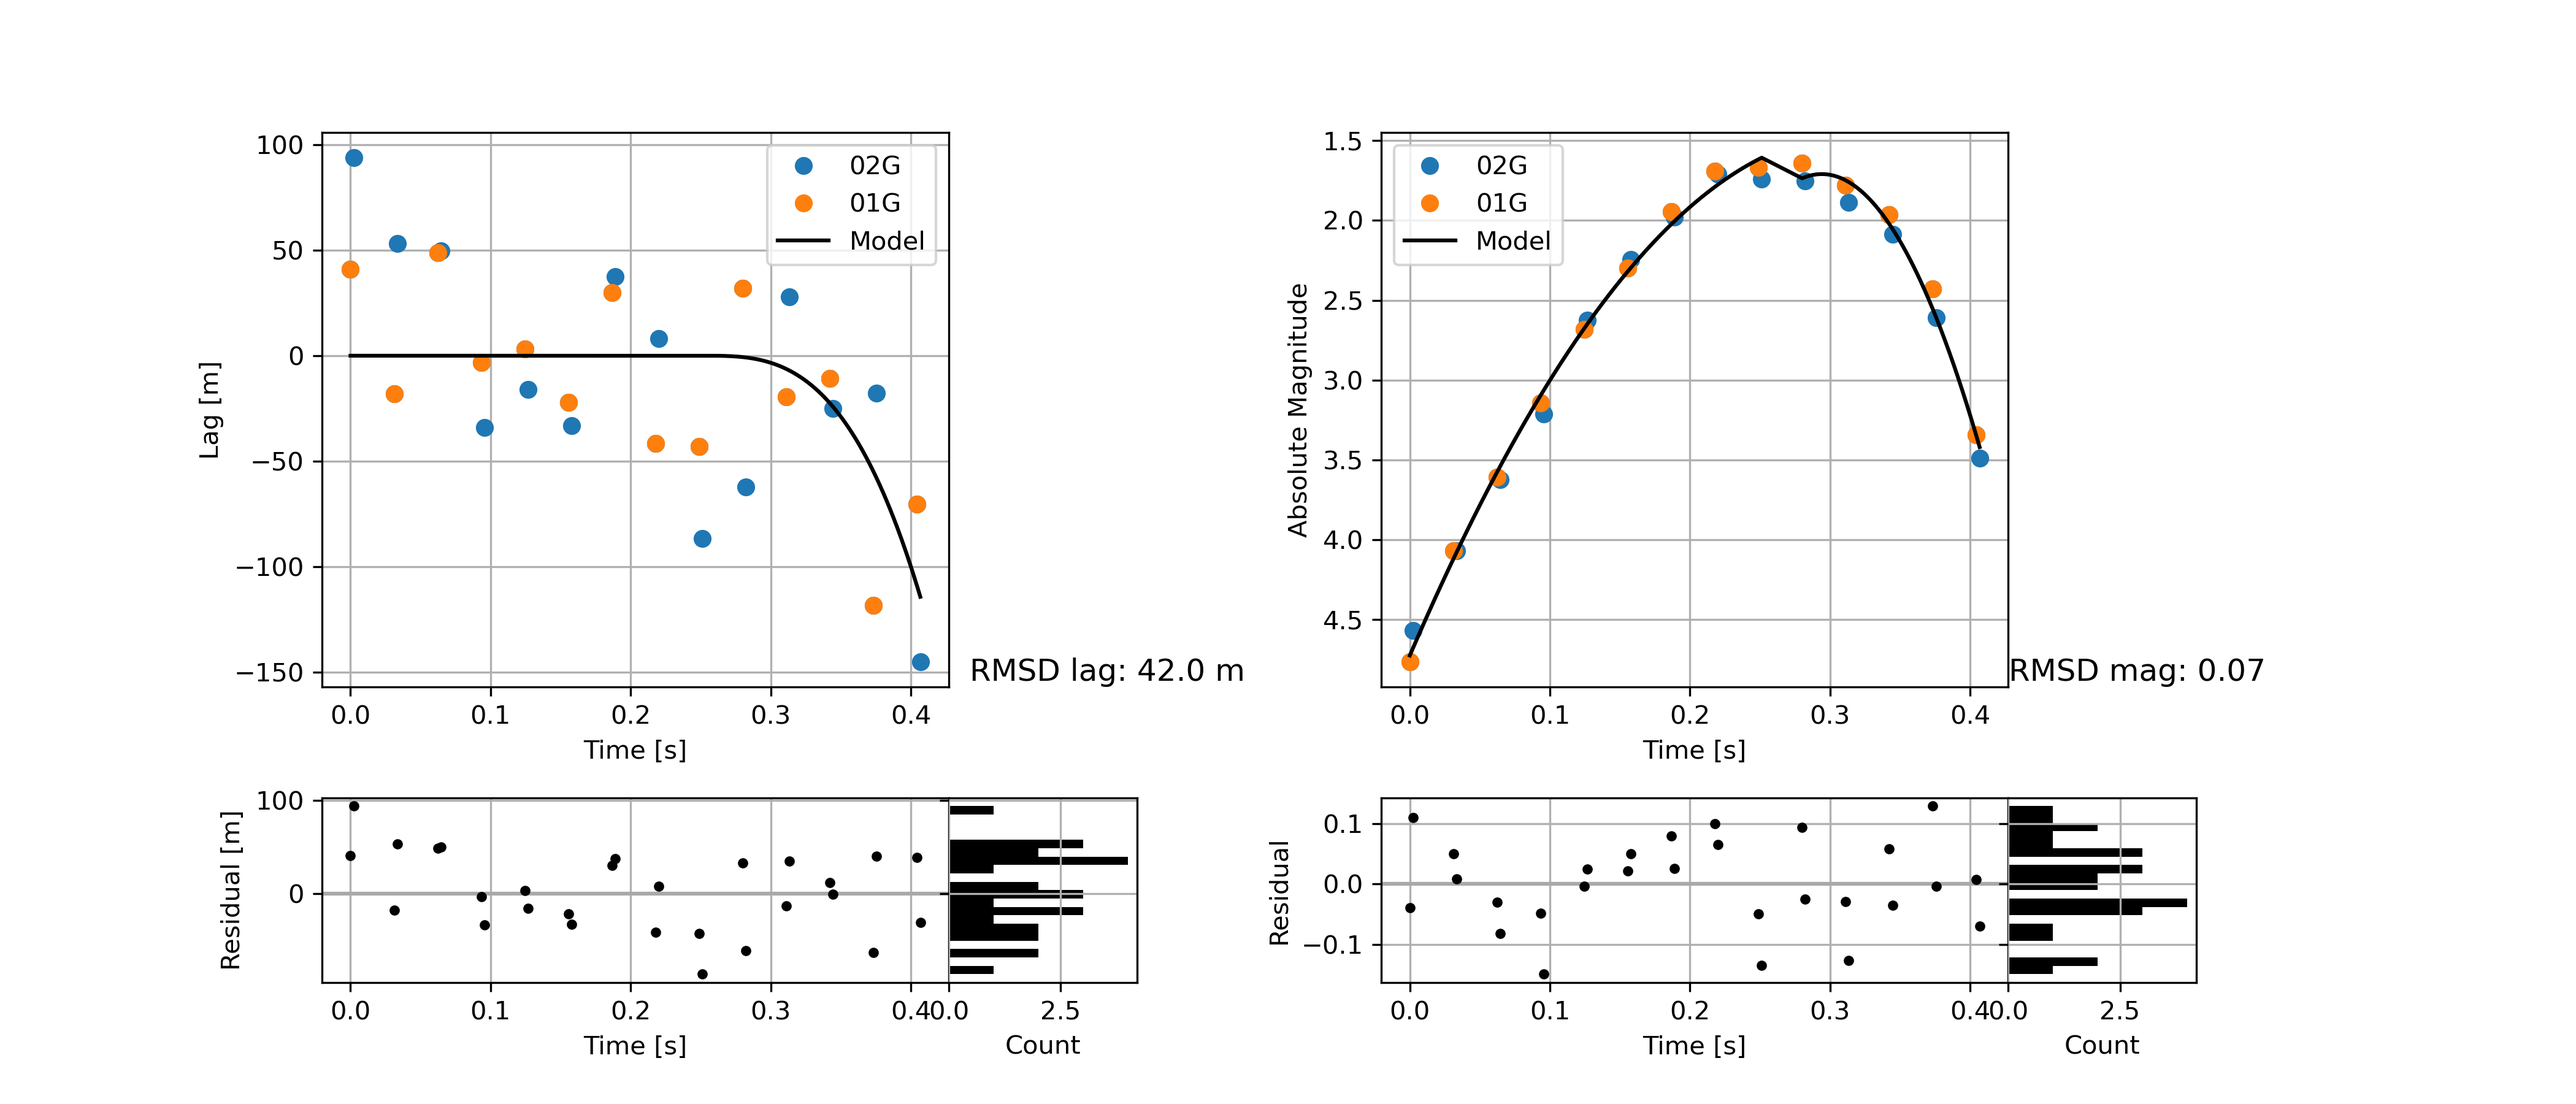
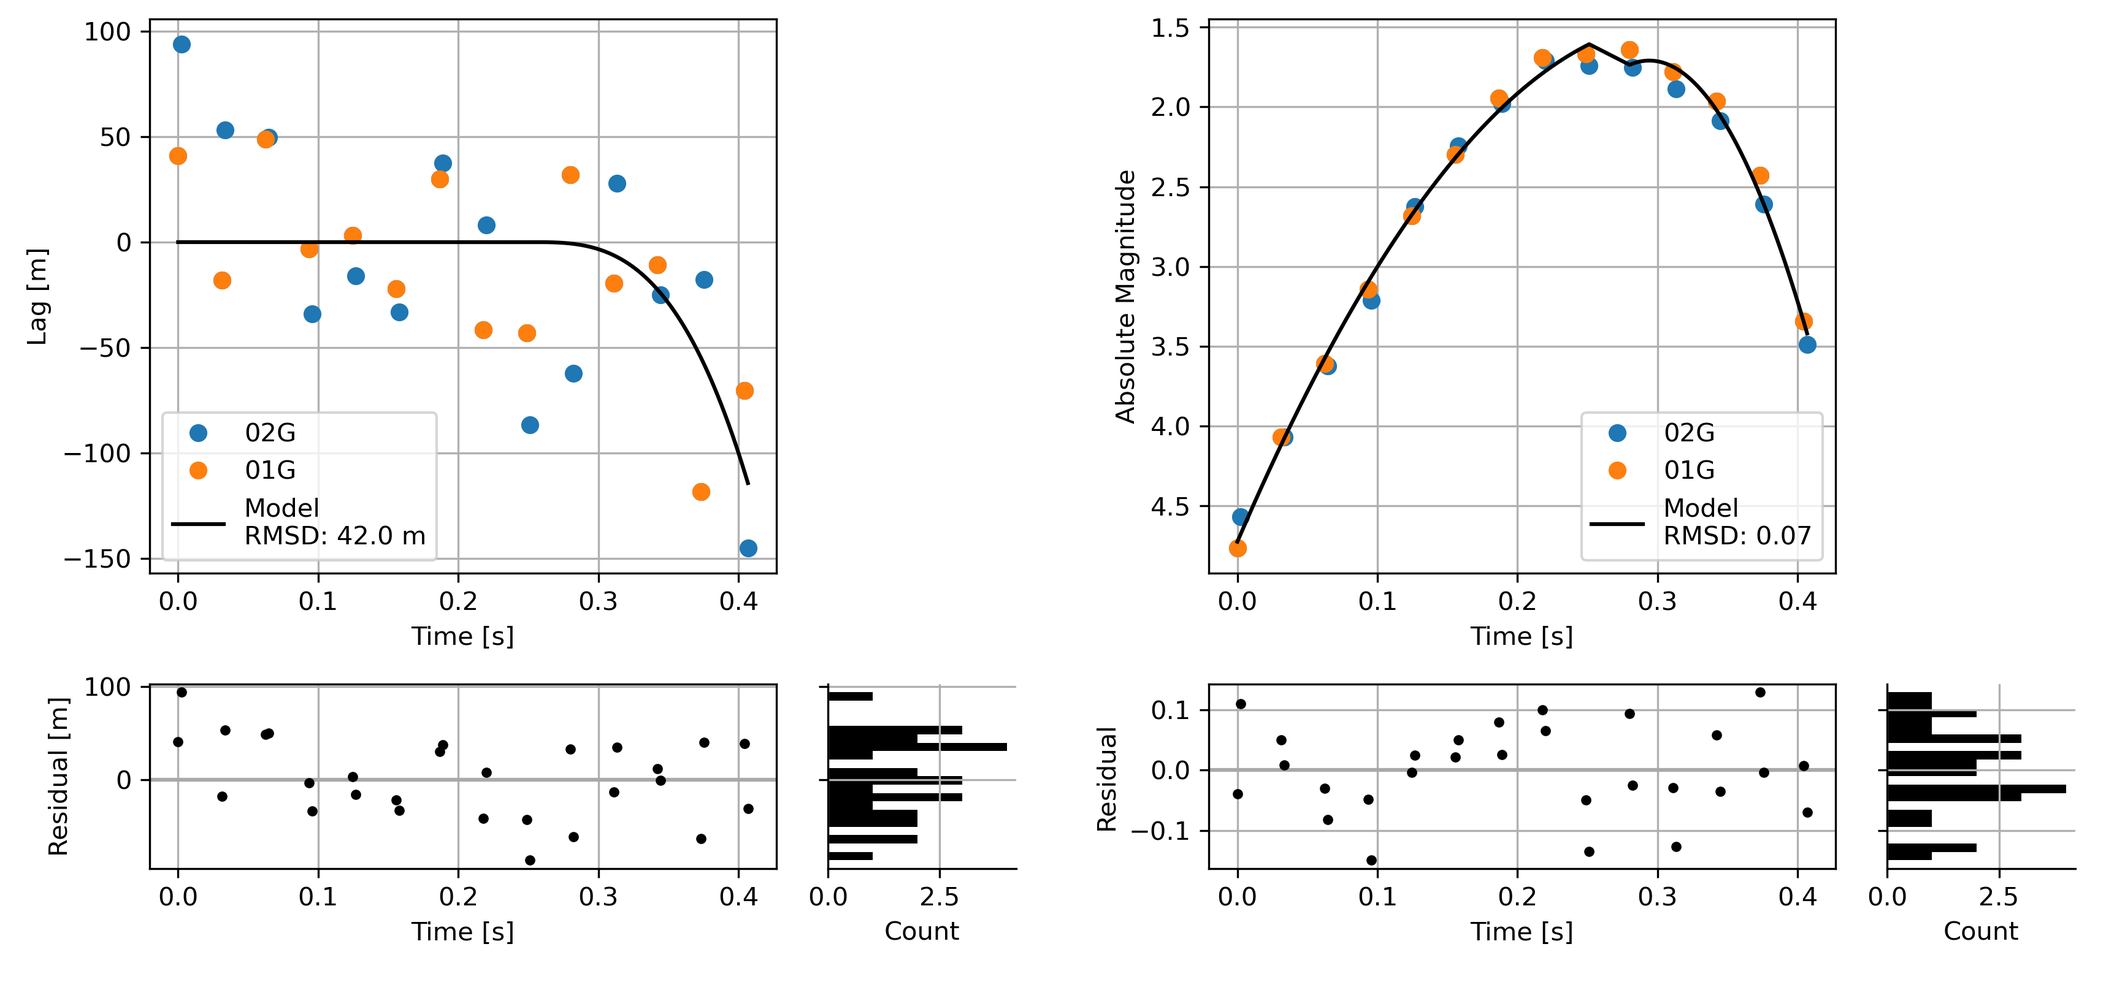
plotstdv.py

diff --git a/Code/PCA/manual_reduce/Plots_stdv.py b/Code/PCA/manual_reduce/Plots_stdv.py
@@ -273,7 +273,7 @@ def plot_side_by_side_old(obs1, obs2,file,num):
     ax[0].plot(obs1['time_data'], obs1['lag'], 'o', label=f'{obs1["station_id"]}')
     ax[0].plot(obs2['time_data'], obs2['lag'], 'o', label=f'{obs2["station_id"]}')
     fitted_lag, residuals_lag, avg_residual_lag, time_data, labels = fit_lag(obs1['lag'],obs1['time_data'],spli=100000)
-    ax[0].plot(time_data, fitted_lag, 'k-', label='Model')
+    ax[0].plot(time_data, fitted_lag, 'k-', label='Model\nRMSD: {:.1f} m'.format(avg_residual_lag))
     # spline_fit, residuals, avg_residual_lag = fit_spline(obs1['lag'] / 1000 , obs1['time_data'])
     # plt.plot(obs1['time_data'], spline_fit*1000, 'k-', label='Spline Fit')
     # spline_fit, residuals_lag, avg_residual_lag = fit_cubic_spline(obs1['lag'] / 1000, obs1['time_data'])
@@ -292,9 +292,9 @@ def plot_side_by_side_old(obs1, obs2,file,num):
     ax[2].plot(obs1['time_data'], obs1['absolute_magnitudes'], 'o', label=f'{obs1["station_id"]}')
     ax[2].plot(obs2['time_data'], obs2['absolute_magnitudes'], 'o', label=f'{obs2["station_id"]}')
     spline_fit, residuals_mag, avg_residual,time_data,label_fit = fit_spline(obs1['absolute_magnitudes'], obs1['time_data'])
-    ax[2].plot(time_data, spline_fit, 'k-', label='Model')
+    ax[2].plot(time_data, spline_fit, 'k-', label='Model\nRMSD: {:.2f}'.format(avg_residual))
     ax[2].set_xlabel('Time [s]')
-    ax[2].set_ylabel('Absolute Magnitude [-]')
+    ax[2].set_ylabel('Absolute Magnitude ')
     # flip the y-axis
     ax[2].invert_yaxis()
     # ax[2].title.set_text(f'Absolute Magnitude - RMSD: {avg_residual:.2f}')
@@ -316,11 +316,15 @@ def plot_side_by_side_old(obs1, obs2,file,num):
 
     # plot the distribution of the residuals along the y axis
     ax[5].hist(residuals_lag, bins=20, orientation='horizontal', color='k')
-    ax[5].set_xlabel('N.data')
-    ax[5].set_ylabel('Residual [m]')
+    ax[5].set_xlabel('Count')
+    # ax[5].set_ylabel('Residual [m]')
     # delete the the the line at the top ad the right
     ax[5].spines['top'].set_visible(False)
     ax[5].spines['right'].set_visible(False)
+    # put show no ticks values
+    ax[5].tick_params(axis='y', which='both', left=False, right=False, labelleft=False)
+    # sahere the y axis with plot 4
+    ax[5].sharey(ax[4])
     # do not show the y ticks
     # ax[5].set_yticks([])
     # # show the zero line
@@ -331,7 +335,7 @@ def plot_side_by_side_old(obs1, obs2,file,num):
     # plot the residuals against time
     ax[6].plot(obs1['time_data'], residuals_mag, 'k.', label=f'{obs1["station_id"]}')
     ax[6].set_xlabel('Time [s]')
-    ax[6].set_ylabel('Residual [-]')
+    ax[6].set_ylabel('Residual')
     ax[6].invert_yaxis()
     # ax[3].title(f'Absolute Magnitude Residuals')
     # ax[3].legend()
@@ -339,10 +343,14 @@ def plot_side_by_side_old(obs1, obs2,file,num):
 
     # plot the distribution of the residuals along the y axis
     ax[7].hist(residuals_mag, bins=20, orientation='horizontal', color='k')
-    ax[7].set_xlabel('N.data')
+    ax[7].set_xlabel('Count')
     # invert the y axis
     ax[7].invert_yaxis()
-    ax[7].set_ylabel('Residual [-]')
+    # ax[7].set_ylabel('Residual ')
+    # put in te ticks no numbers
+    ax[7].tick_params(axis='y', which='both', left=False, right=False, labelleft=False)
+    # sahre the y axis with plot 6
+    ax[7].sharey(ax[6])
     # delete the the the line at the top ad the right
     ax[7].spines['top'].set_visible(False)
     ax[7].spines['right'].set_visible(False)
@@ -404,7 +412,7 @@ def plot_side_by_side(obs1, obs2, file, num):
     fitted_lag, residuals_lag, avg_residual_lag, time_data, labels = fit_lag(obs1['lag'], obs1['time_data'], spli=100000)
     ax0.plot(obs1['time_data'], obs1['lag'], 'o', label=f'{obs1["station_id"]}')
     ax0.plot(obs2['time_data'], obs2['lag'], 'o', label=f'{obs2["station_id"]}')
-    ax0.plot(time_data, fitted_lag, 'k-', label='Model')
+    ax0.plot(time_data, fitted_lag, 'k-', label='Model\nRMSD: {:.1f} m'.format(avg_residual_lag))
     ax0.set_xlabel('Time [s]')
     ax0.set_ylabel('Lag [m]')
     ax0.legend()
@@ -417,23 +425,23 @@ def plot_side_by_side(obs1, obs2, file, num):
     spline_fit, residuals_mag, avg_residual, time_data, label_fit = fit_spline(obs1['absolute_magnitudes'], obs1['time_data'])
     ax2.plot(obs1['time_data'], obs1['absolute_magnitudes'], 'o', label=f'{obs1["station_id"]}')
     ax2.plot(obs2['time_data'], obs2['absolute_magnitudes'], 'o', label=f'{obs2["station_id"]}')
-    ax2.plot(time_data, spline_fit, 'k-', label='Model')
+    ax2.plot(time_data, spline_fit, 'k-', label='Model\nRMSD: {:.2f}'.format(avg_residual))
     ax2.set_xlabel('Time [s]')
     ax2.set_ylabel('Absolute Magnitude')
     ax2.invert_yaxis()
     ax2.legend()
     ax2.grid(True)
 
-    # After all plotting is done
-    pos0 = ax0.get_position()  # returns a Bbox
-    pos2 = ax2.get_position()
+    # # After all plotting is done
+    # pos0 = ax0.get_position()  # returns a Bbox
+    # pos2 = ax2.get_position()
 
-    # Place text near lower right corner of the first plot (ax0)
-    # For example, just to the right (0.01) of the ax0's right edge and aligned with its bottom (y0):
-    fig.text(pos0.x1 + 0.115, pos0.y0, f'RMSD lag: {avg_residual_lag:.1f} m',  ha='right', va='bottom', fontsize=12, color='black')
+    # # Place text near lower right corner of the first plot (ax0)
+    # # For example, just to the right (0.01) of the ax0's right edge and aligned with its bottom (y0):
+    # fig.text(pos0.x1 + 0.115, pos0.y0, f'RMSD lag: {avg_residual_lag:.1f} m',  ha='right', va='bottom', fontsize=12, color='black')
 
-    # Similarly for the second plot (ax2):
-    fig.text(pos2.x1 + 0.1, pos2.y0, f'RMSD mag: {avg_residual:.2f}',  ha='right', va='bottom', fontsize=12, color='black')
+    # # Similarly for the second plot (ax2):
+    # fig.text(pos2.x1 + 0.1, pos2.y0, f'RMSD mag: {avg_residual:.2f}',  ha='right', va='bottom', fontsize=12, color='black')
 
     # Empty plot top row
     ax3.axis('off')
@@ -451,8 +459,9 @@ def plot_side_by_side(obs1, obs2, file, num):
     ax5.set_xlabel('Count')
     ax5.set_ylabel('')  # no label
     # We'll remove tick labels later with tick_params
-
-    ax5.spines['left'].set_visible(False)
+    ax5.spines['top'].set_visible(False)
+    ax5.spines['right'].set_visible(False)
+    # ax5.spines['left'].set_visible(False)
     ax5.grid(True)
 
     # put the zer line in dark gray
@@ -469,18 +478,25 @@ def plot_side_by_side(obs1, obs2, file, num):
     ax7.set_xlabel('Count')
     ax7.set_ylabel('')
     # Will remove tick labels later
-    ax7.spines['left'].set_visible(False)
+    # ax7.spines['left'].set_visible(False)
+    # delete the top and righ border
+    ax7.spines['top'].set_visible(False)
+    ax7.spines['right'].set_visible(False)
     ax7.grid(True)
     ax7.invert_yaxis()
 
     # --- Manually adjust positions to remove space between (4,5) and (6,7) --- #
     pos4 = ax4.get_position()
     pos5 = ax5.get_position()
-    ax5.set_position([pos4.x1, pos5.y0, pos5.width, pos5.height])  # no space between 4 & 5
+    # ax5.set_position([pos4.x1, pos5.y0, pos5.width, pos5.height])  # no space between 4 & 5
+    # put 0.01 space between the plots
+    ax5.set_position([pos4.x1+0.02, pos5.y0, pos5.width, pos5.height])
 
     pos6 = ax6.get_position()
     pos7 = ax7.get_position()
-    ax7.set_position([pos6.x1, pos7.y0, pos7.width, pos7.height])  # no space between 6 & 7
+    # ax7.set_position([pos6.x1, pos7.y0, pos7.width, pos7.height])  # no space between 6 & 7
+    # put 0.01 space between the plots
+    ax7.set_position([pos6.x1+0.02, pos7.y0, pos7.width, pos7.height])
 
     # --- Adjust tick labels at the end ---
     # For ax4 and ax6, we want y tick labels:
@@ -511,7 +527,7 @@ directory = r'C:\Users\maxiv\Documents\UWO\Papers\1)PCA\Reductions\PER_EMCCD_cen
 # Prepare a list to store average residuals
 avg_residuals = []
 print('\hline')
-print('Name & RMSD lag [m] & RMSD mag [-] \\\\')
+print('Name & RMSD lag [m] & RMSD mag  \\\\')
 print('\hline')
 
 all_residuals_lag = []
